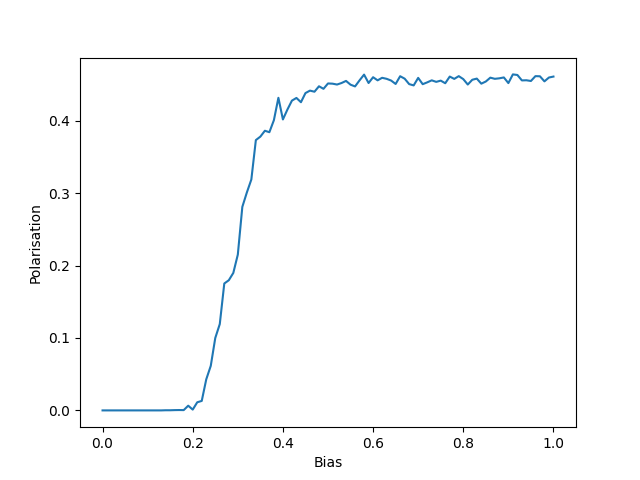
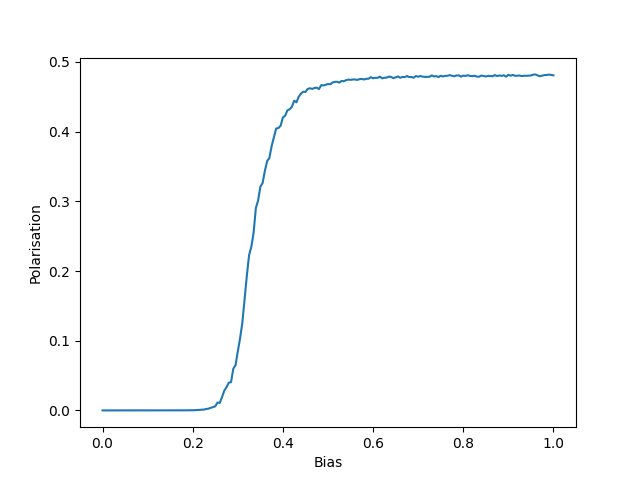
big-simulation

diff --git a/simulate.py b/simulate.py
@@ -1,13 +1,23 @@
 from media_platform import MediaPlatform
 import matplotlib.pyplot as plt
 import json
+from globals import *
 
-BS = [round(0.01 * i, 2) for i in range(0, 101)]
-NUM_SIMULATIONS = 100
-
-def save(fractions, filename='data/data.txt'):
+def save(fractions, filename):
+	data = {
+		'parameters': {
+			'NUM_AGENTS': NUM_AGENTS,
+			'NUM_TIME_STEPS': NUM_TIME_STEPS,
+			'CONVERGENCE_NUM': CONVERGENCE_NUM,
+			'NUM_SIMULATIONS': NUM_SIMULATIONS,
+			'P': P,
+			'C': C,
+			'D': D
+		},
+		'data': fractions
+	}
 	with open(filename, 'w') as f:
-		json.dump(fractions, f, indent=2)
+		json.dump(data, f, indent=2)
 
 def simulate(b):
 	'''
@@ -23,8 +33,10 @@ if __name__ == '__main__':
 	fractions = {}
 	try:
 		for b in BS:
+			print(b)
 			fractions[b] = []
 			for i in range(NUM_SIMULATIONS):
+				# print(f'bias {b}, trial {i}')
 				f = simulate(b)
 				fractions[b].append(f)
 			fractions[b] = round(sum(fractions[b]) / NUM_SIMULATIONS, 4)
@@ -33,11 +45,12 @@ if __name__ == '__main__':
 		pass
 
 	print(fractions)
-	save(fractions)
+	save(fractions, filename='data/data3.json')
 
 	plt.plot(fractions.keys(), fractions.values())
 	plt.xlabel('Bias')
 	plt.ylabel('Polarisation')
+	plt.savefig('data/bias-polarisation3.png')
 	plt.show(block=True)
 
 	# plt.show(block=True)

diff --git a/globals.py b/globals.py
@@ -1,8 +1,8 @@
-NUM_AGENTS = 100
-NUM_TIME_STEPS = 500
+NUM_AGENTS = 500
+NUM_TIME_STEPS = 1000
 
 # number of time steps with no change to end the simulation
-CONVERGENCE_NUM = 5
+CONVERGENCE_NUM = 10
 
 # proportion of posting agents
 P = 0.3
@@ -13,7 +13,13 @@ C = 1
 # change in agent's opinion due to a post
 D = 0.1
 
-# -----------------------------------------
+# ---------- simulations ----------
+
+STEP = 5e-3
+BS = [round(STEP * i, 3) for i in range(0, int(1 / STEP) + 1)]
+NUM_SIMULATIONS = 500
+
+# ---------- util ----------
 
 NUM_POSTERS = int(NUM_AGENTS * P)
 POSTS_PER_DAY = int(NUM_POSTERS * C)
